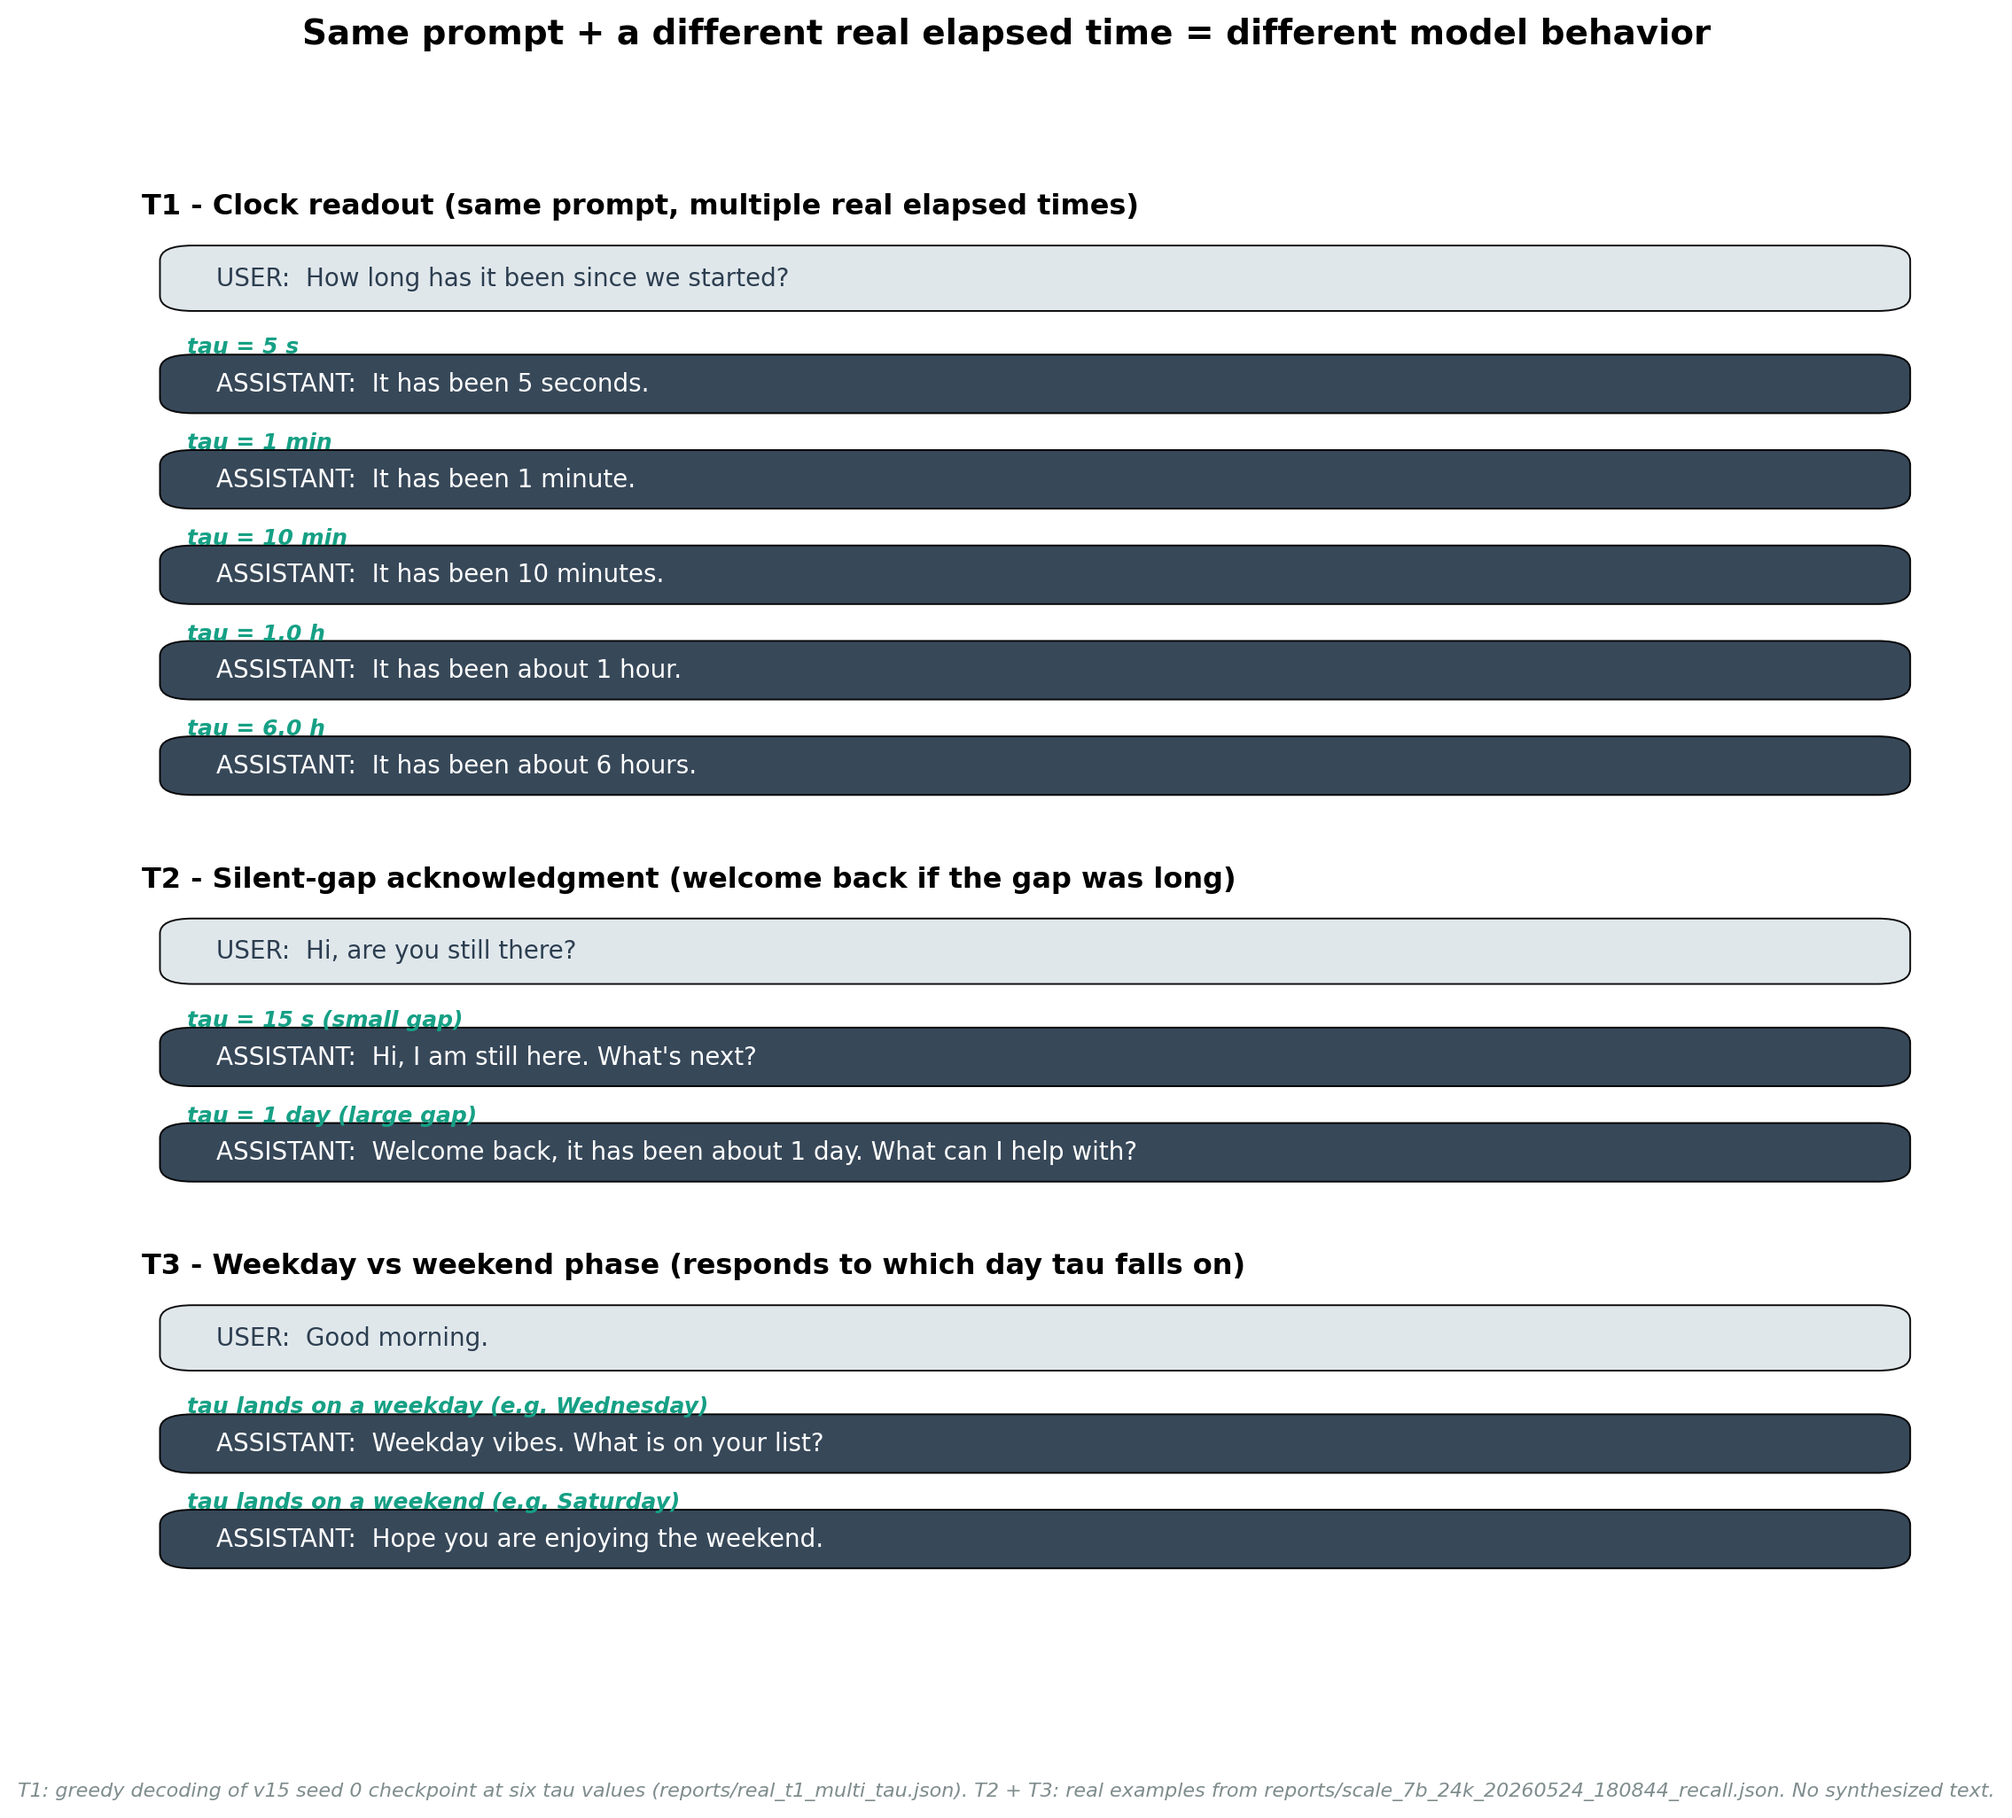
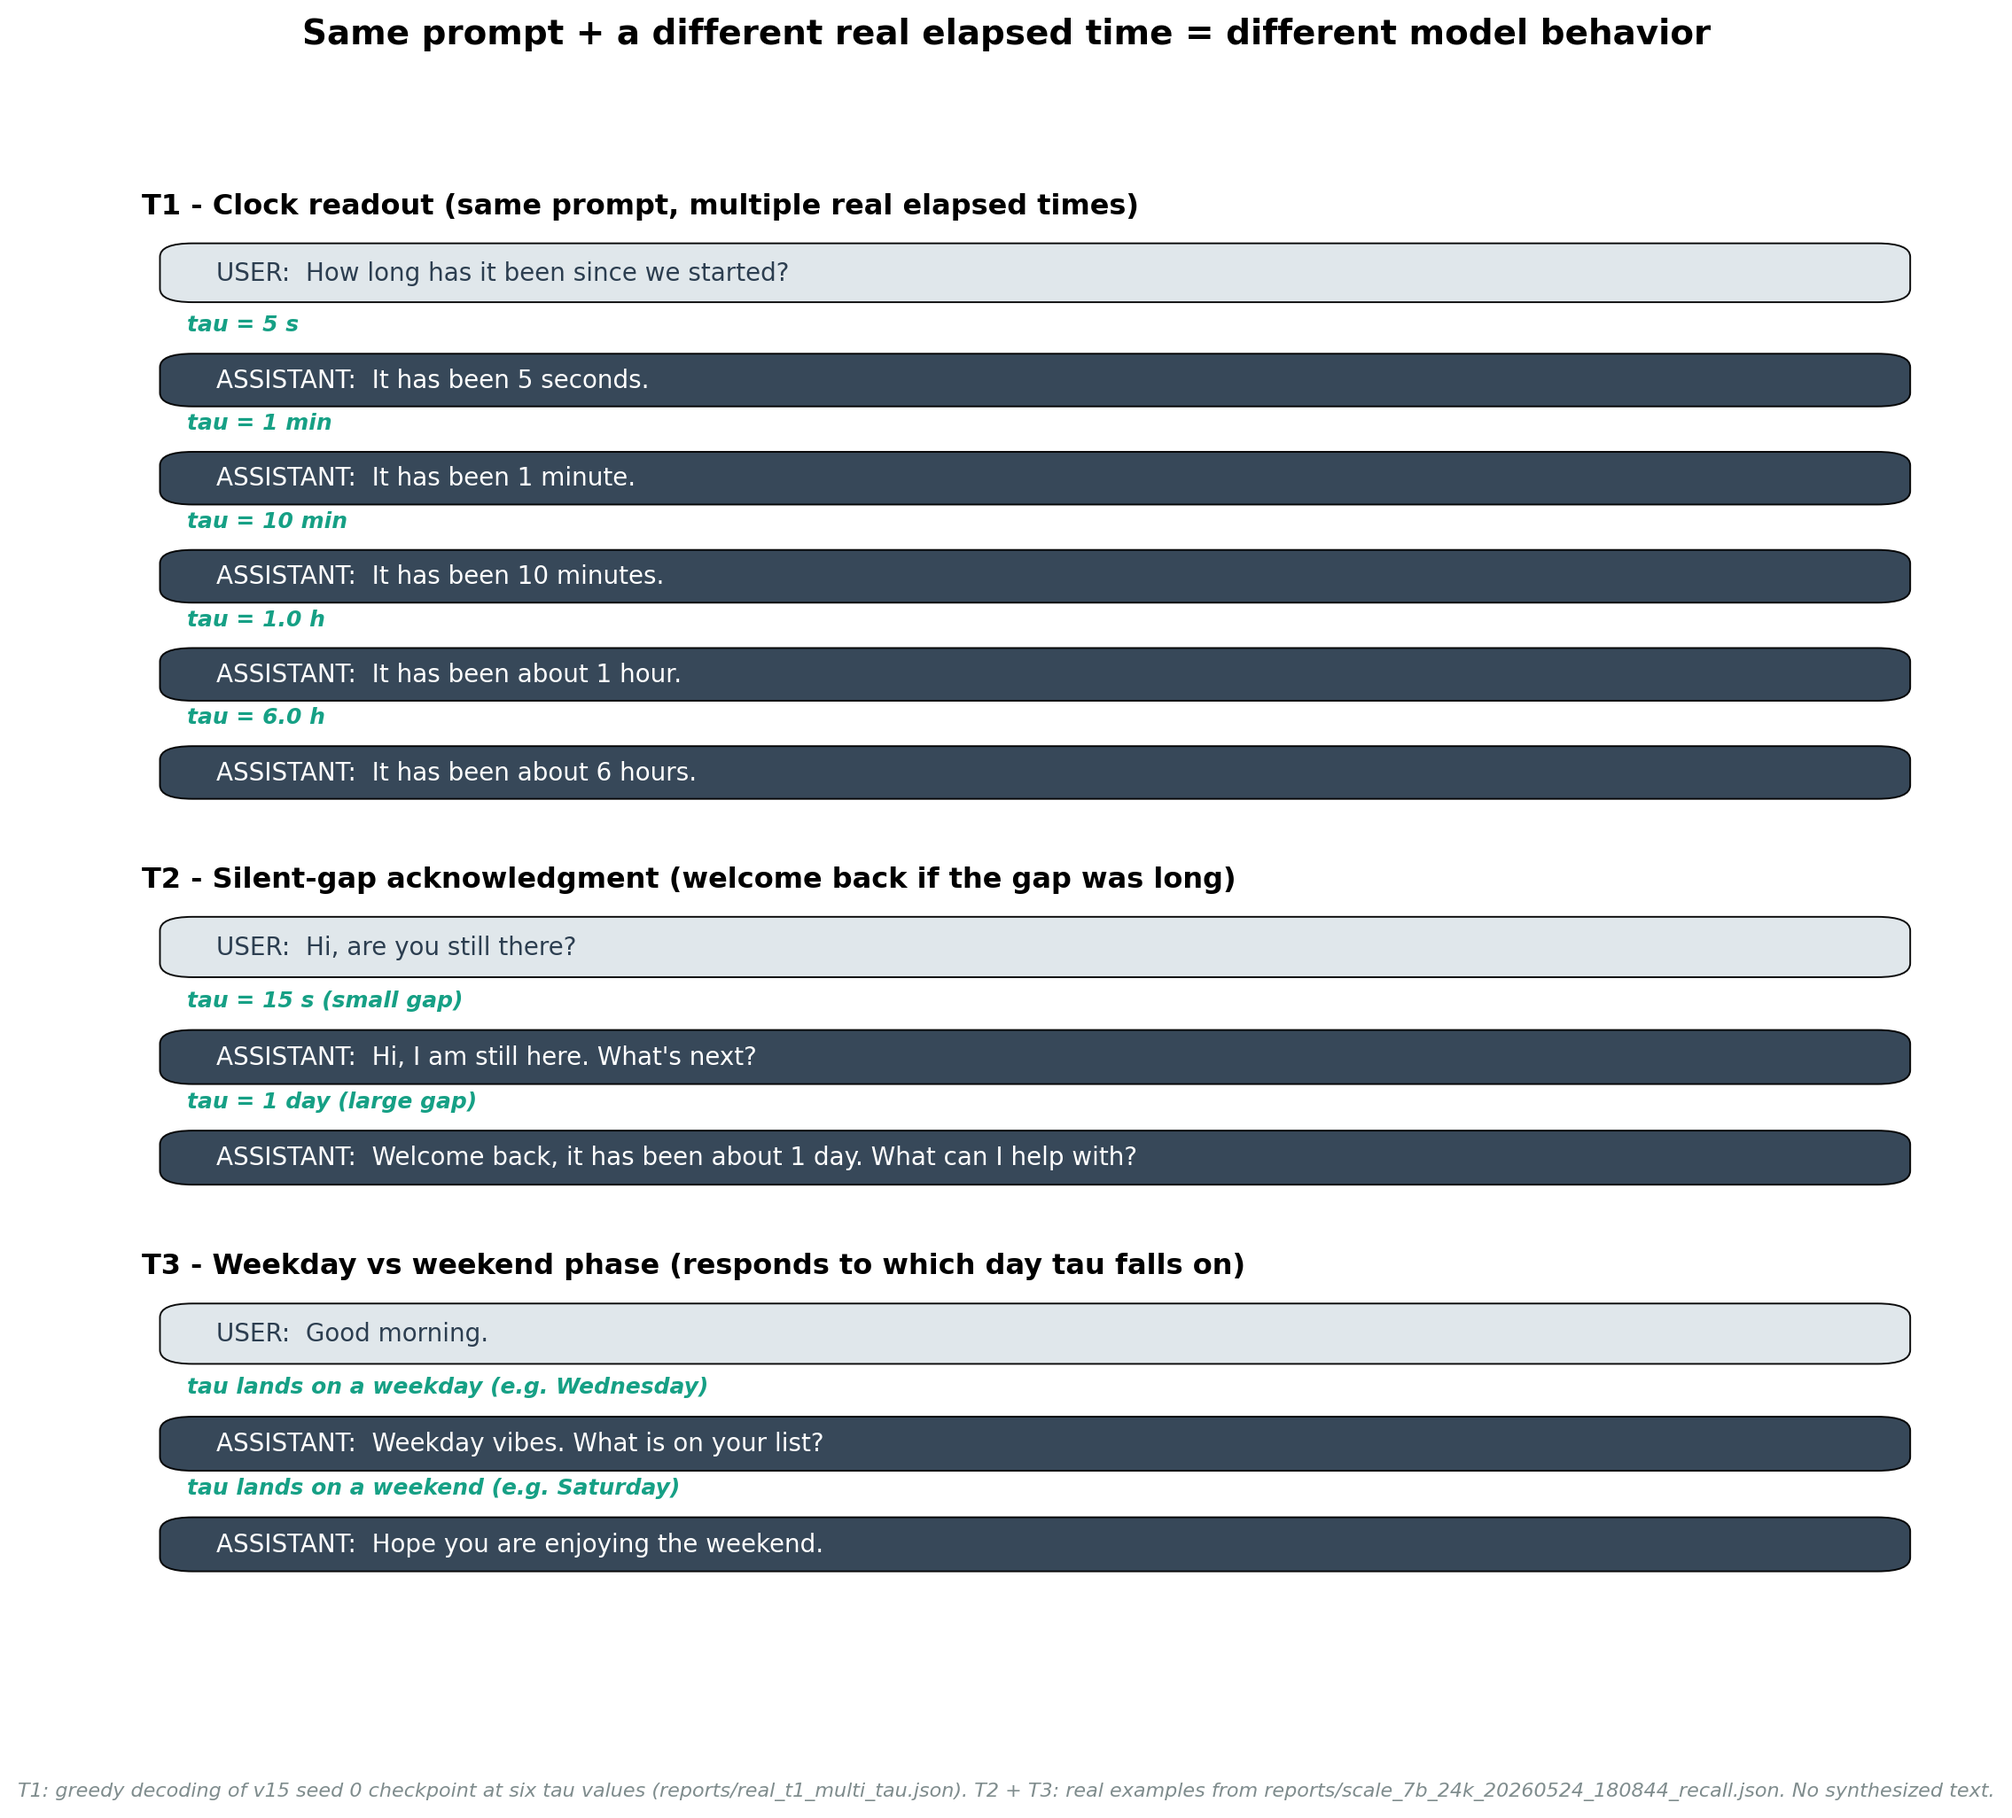
fix(fig8): green tau labels no longer overlap assistant bubbles
The green italic tau labels ("tau = 5 s", "tau = 1 min", etc.) were
positioned at y - 0.30 above bubbles starting at y - tau_offset (= y - 1.10),
which meant the label's descender touched the top edge of the dark navy
ASSISTANT bubble below it.

Fix: bumped tau_offset 1.10 -> 1.30 and tau label y -0.30 -> -0.15
so the label now sits centered in the gap between previous bubble bottom
and current bubble top, with ~0.35 clear space on each side. Total
per-row gap raised 1.40 -> 1.60 to keep proportions consistent.

Synced regenerated PNG to both figures/ and paper/figures/.

diff --git a/scripts/make_fig8_dialogue.py b/scripts/make_fig8_dialogue.py
@@ -42,8 +42,8 @@ def bubble(ax, x, y, w, h, text, *, color, text_color):
             va="center", ha="left", color=text_color)
 
 
-def panel(ax, title, user, assistant_pairs, *, bubble_h=0.70, gap=1.40,
-          tau_offset=1.10):
+def panel(ax, title, user, assistant_pairs, *, bubble_h=0.70, gap=1.60,
+          tau_offset=1.30):
     n = len(assistant_pairs)
     ax.set_xlim(0, 12)
     needed = 1.3 + 0.45 + n * gap + 0.2
@@ -58,7 +58,8 @@ def panel(ax, title, user, assistant_pairs, *, bubble_h=0.70, gap=1.40,
 
     y = top_y - 0.40
     for tau_label, resp in assistant_pairs:
-        ax.text(0.30, y - 0.30, tau_label, fontsize=9, color="#16a085",
+        # tau label sits in the gap with clear separation from bubble below
+        ax.text(0.30, y - 0.15, tau_label, fontsize=9, color="#16a085",
                 fontweight="bold", style="italic")
         bubble(ax, 0.2, y - tau_offset, 11.6, bubble_h,
                f"ASSISTANT:  {resp}",
